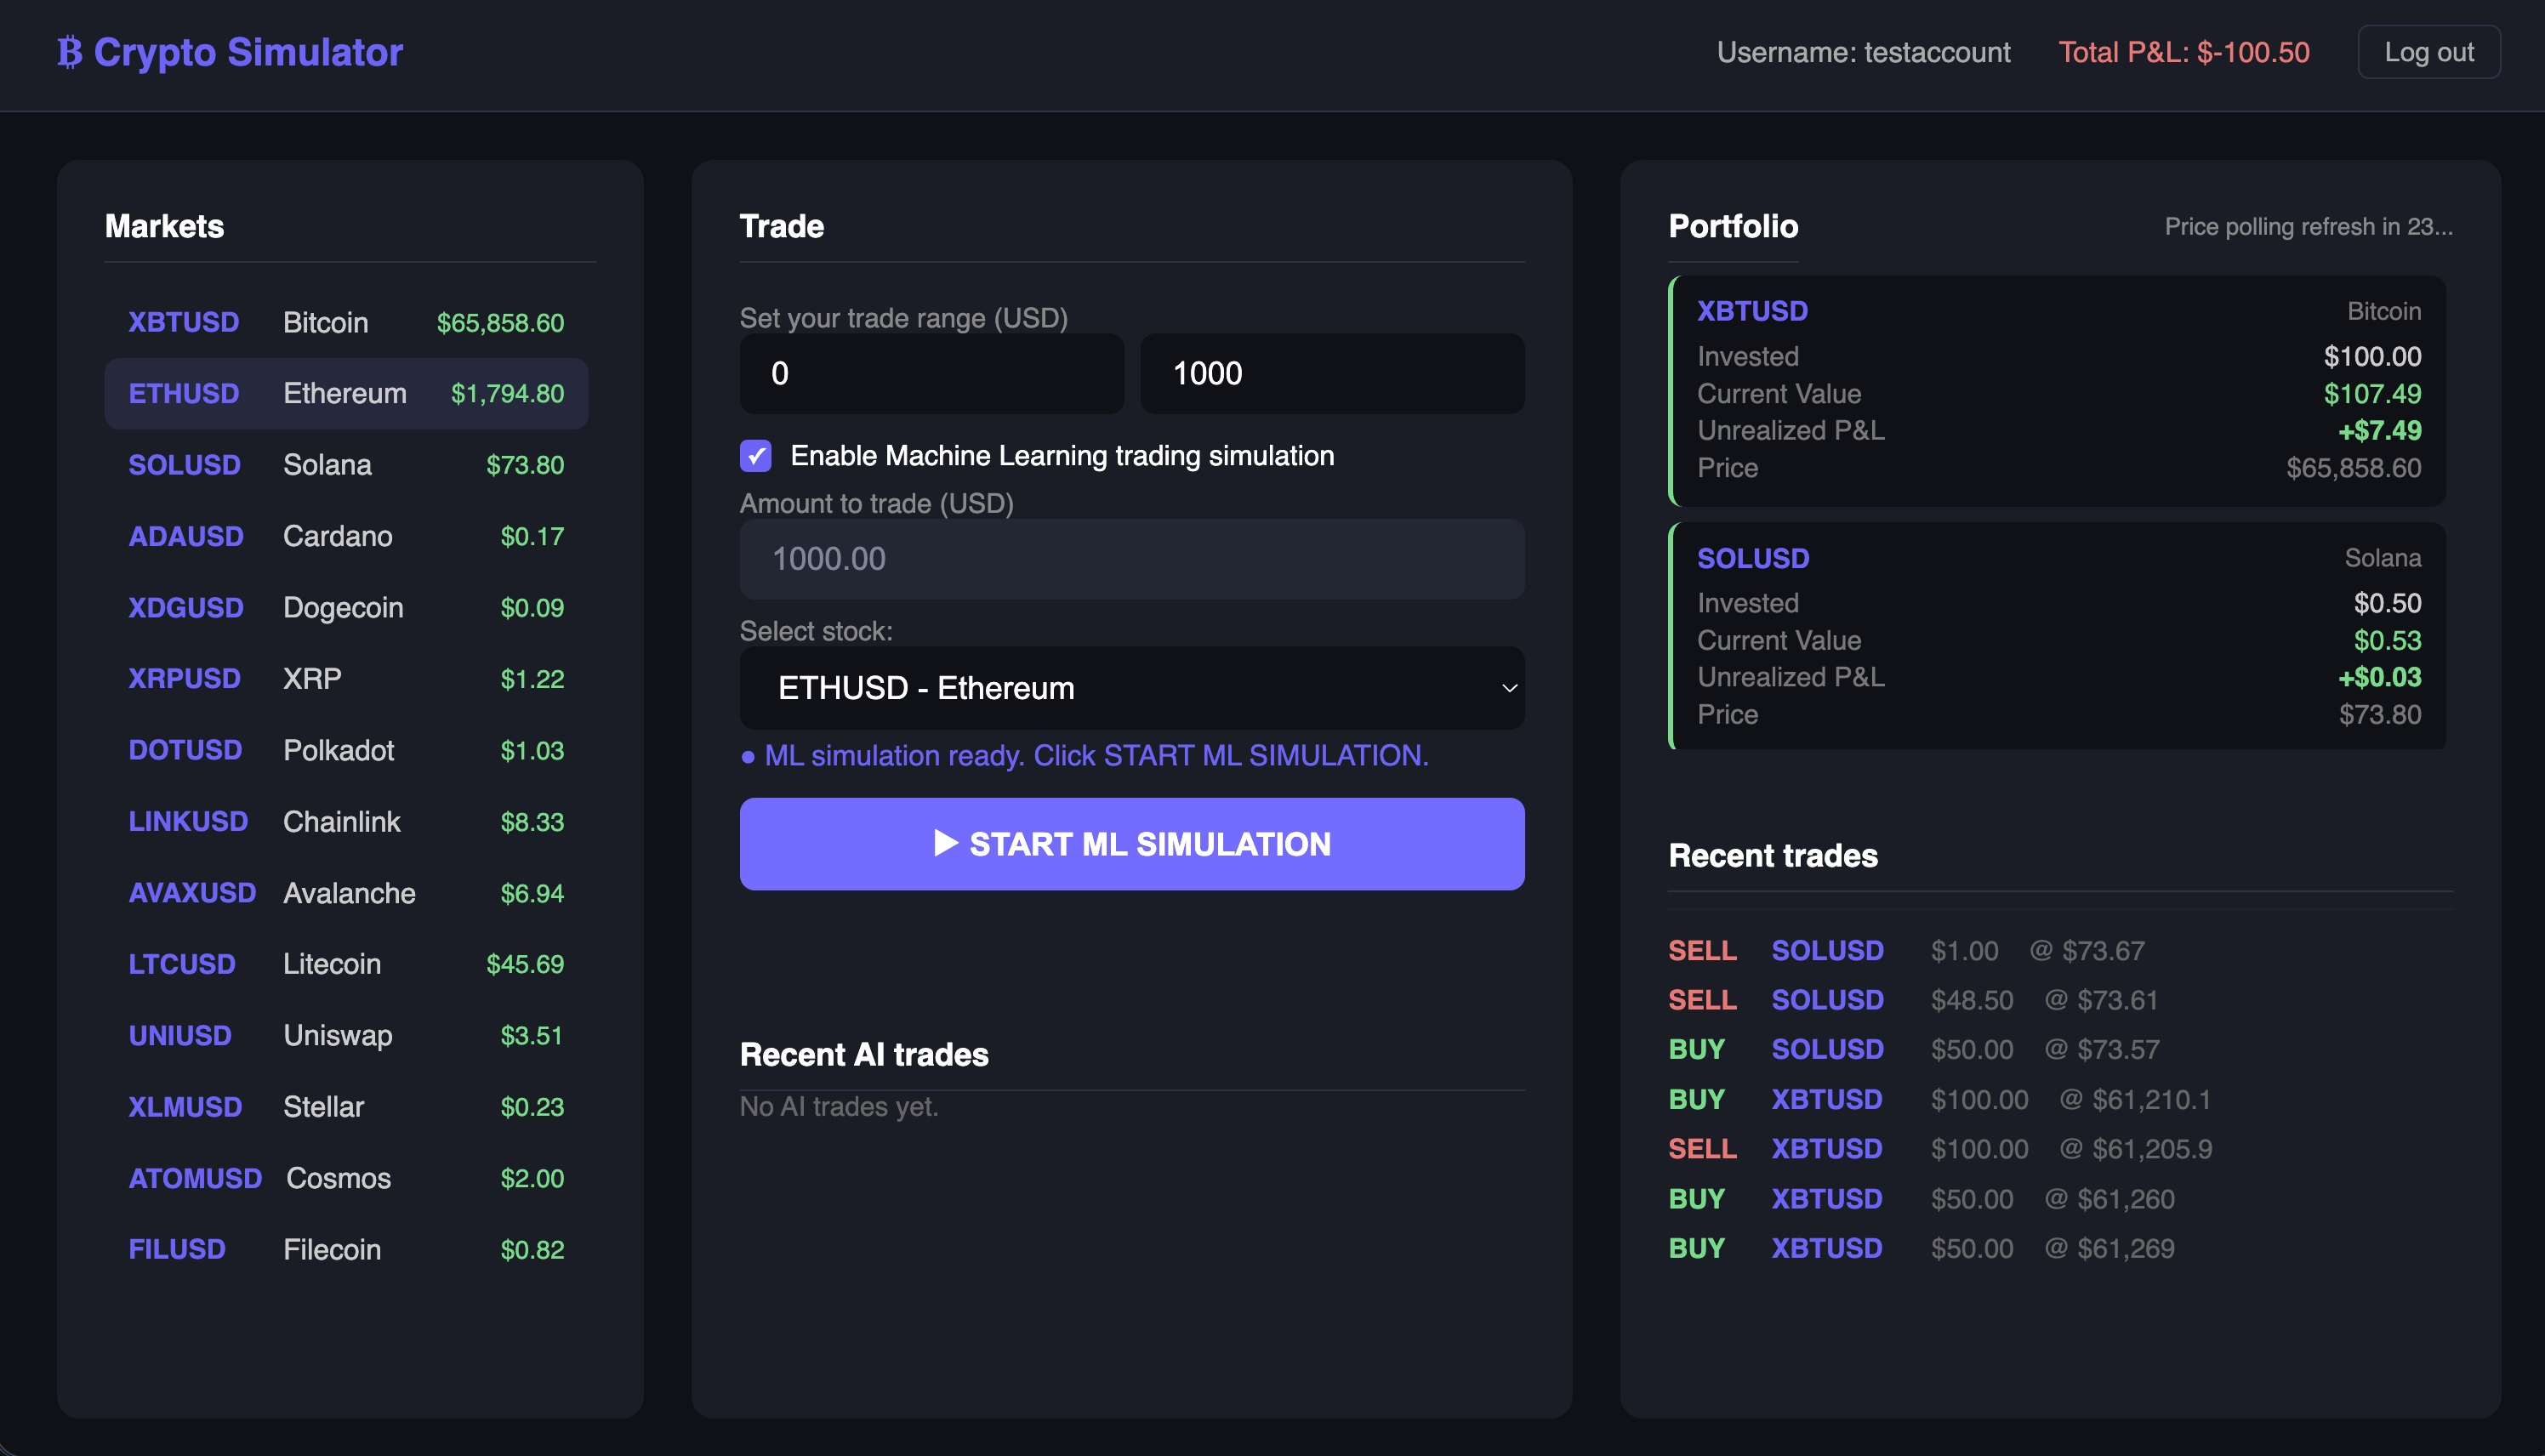
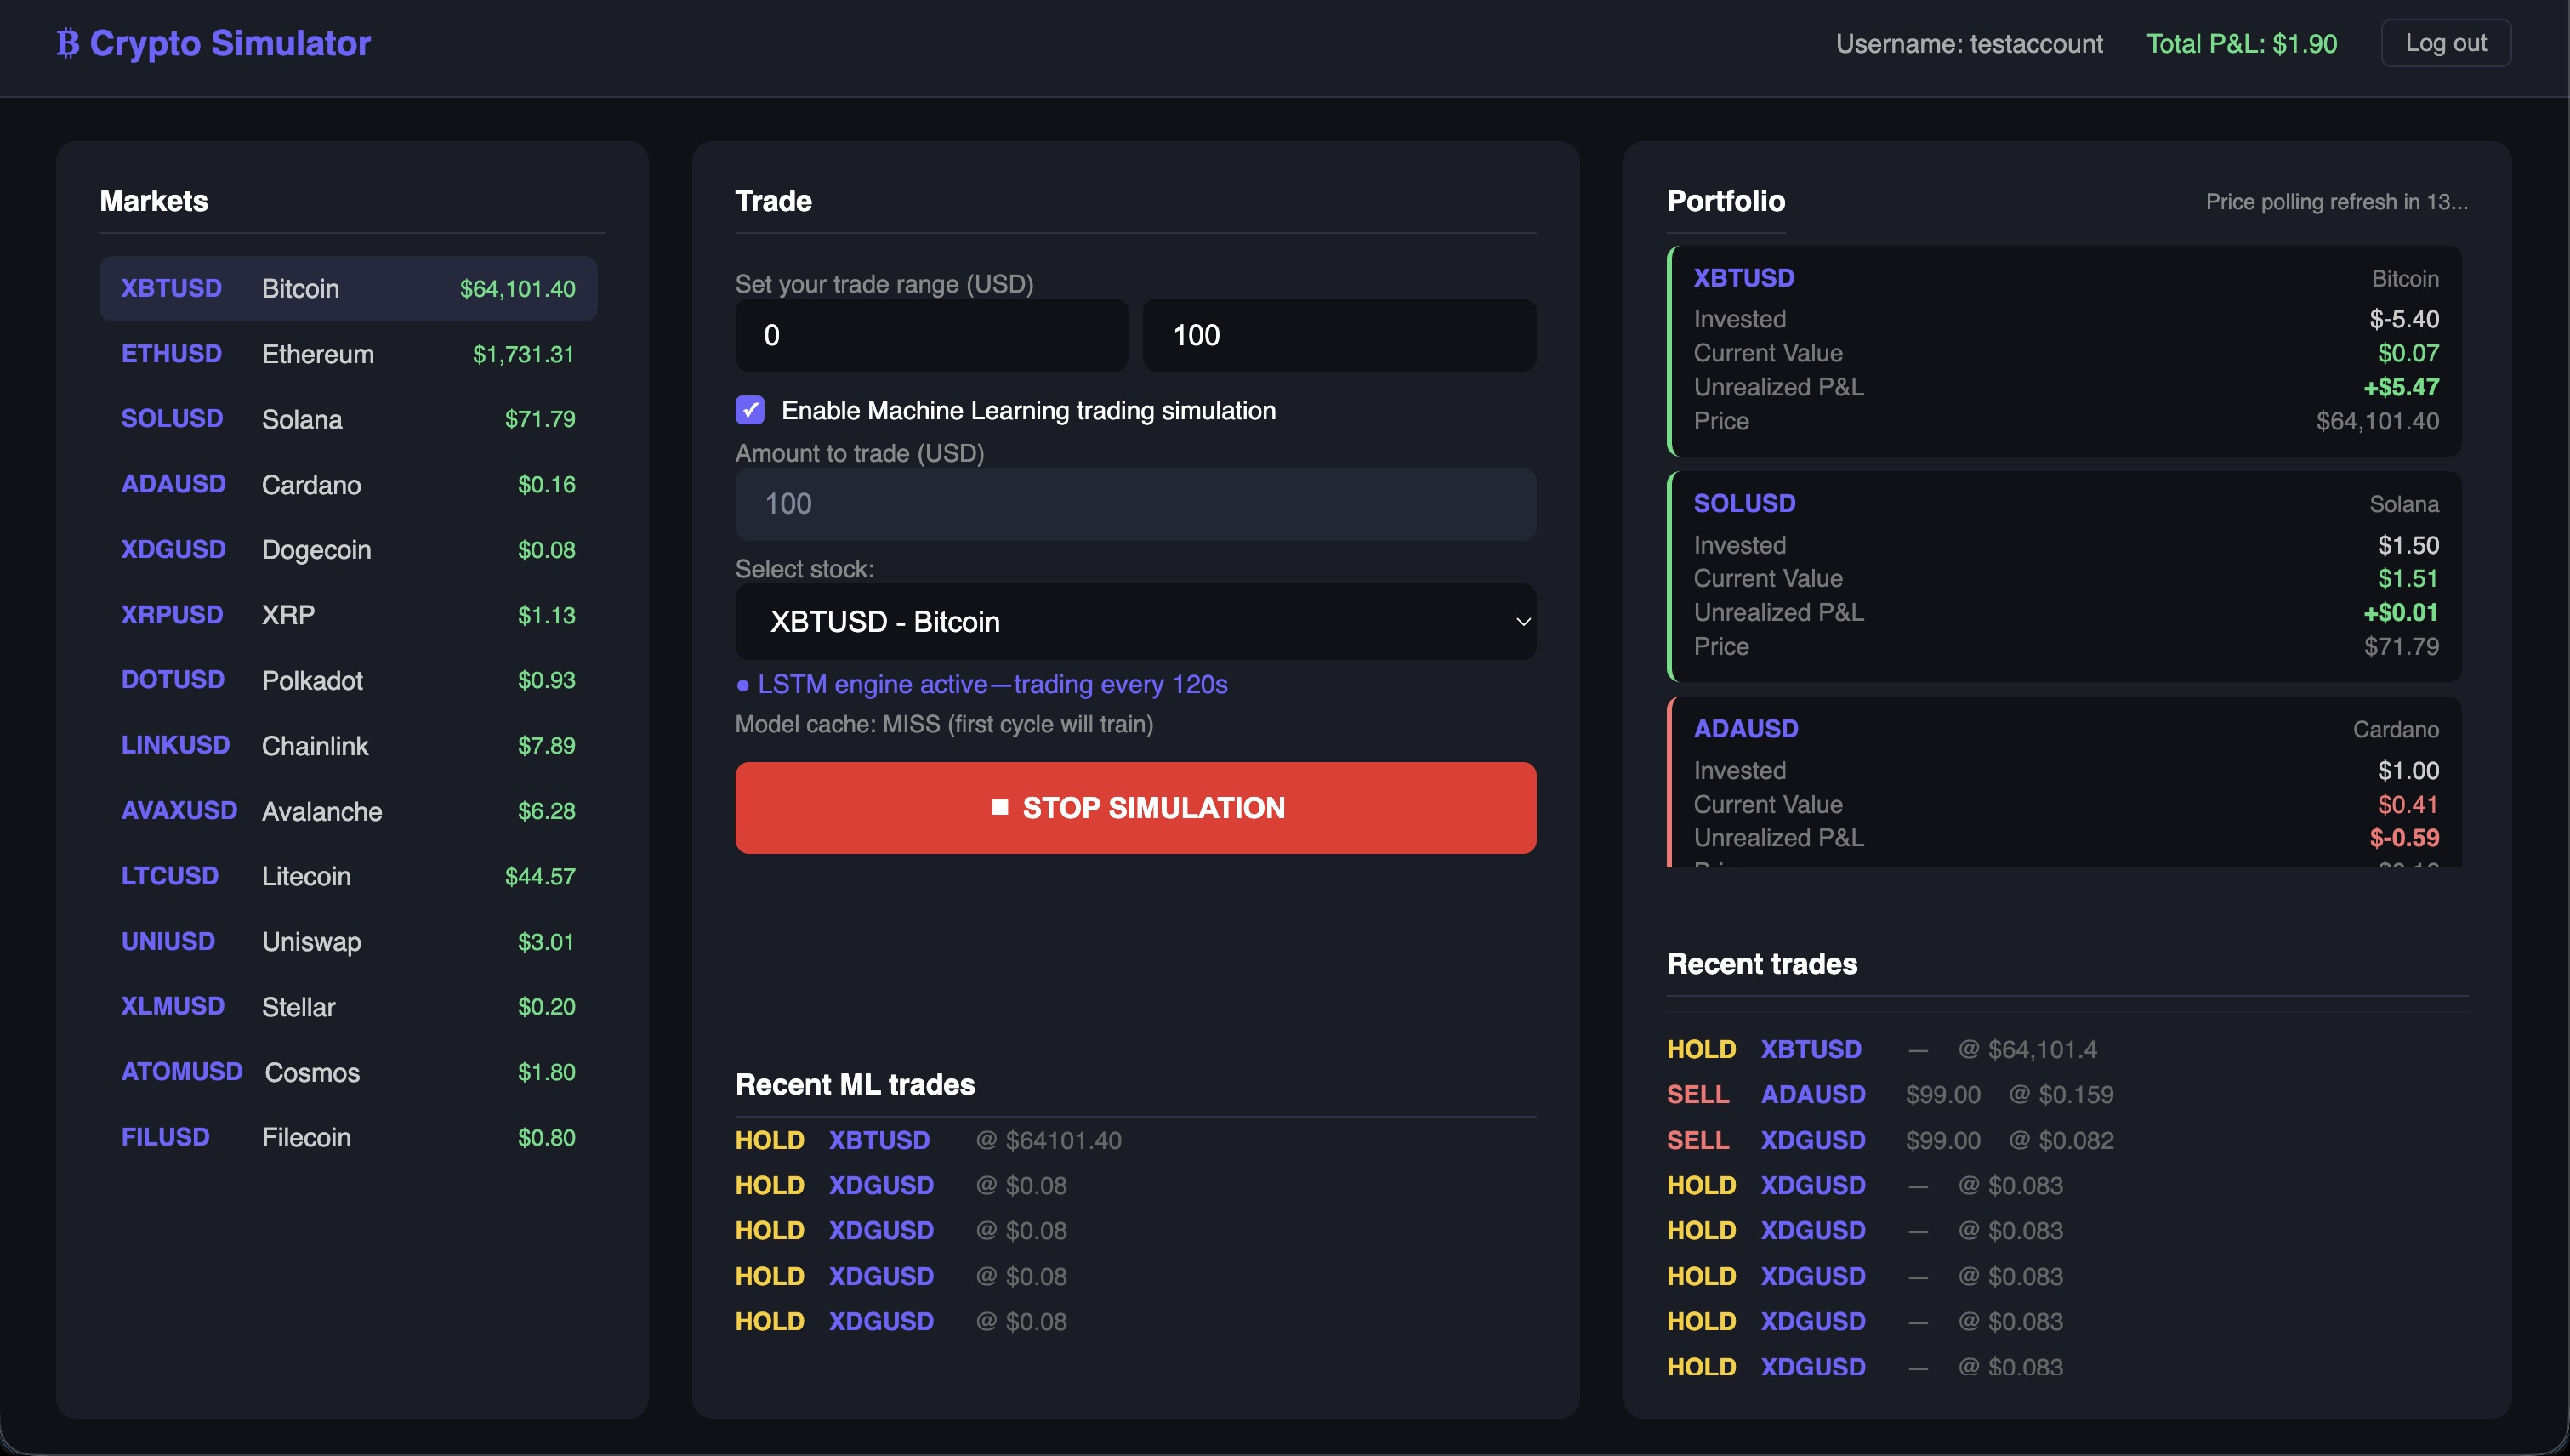
Update images

diff --git a/index.html b/index.html
@@ -1012,7 +1012,7 @@
     },
     {
       src: "images/workplace-00007.jpeg",
-      caption: "Kira working on the web app project."
+      caption: "Kira working on the project."
     },
     {
       src: "images/workplace-00003.jpg",
@@ -1024,11 +1024,11 @@
     },
     {
       src: "images/Agentic-trader-app-screenshot.jpg",
-      caption: "Agentic Trader web app UI screenshot showing the trading dashboard."
+      caption: "Agentic Trader web app UI screenshot with ML mode active."
     },
     {
       src: "images/Agentic-trader-code-screenshot.jpg",
-      caption: "Screenshot of frontend code setup for web app."
+      caption: "Screenshot of code development environment for web app."
     }
   ];
 